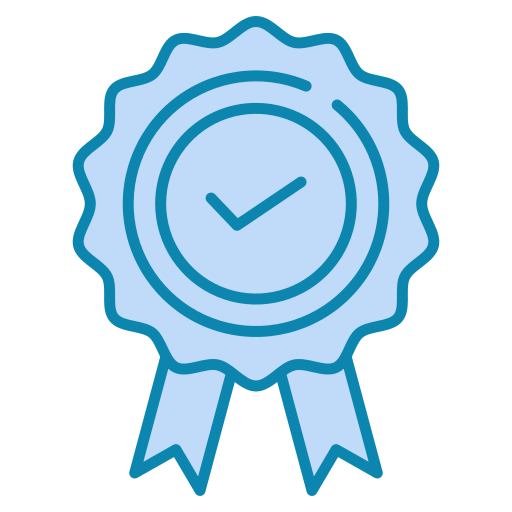
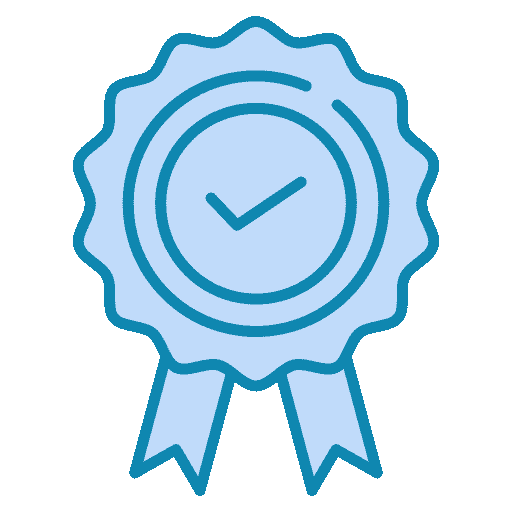
add some animation and fixed image loading time

diff --git a/src/pages/Appointment.jsx b/src/pages/Appointment.jsx
@@ -1,6 +1,7 @@
 import React, { useState } from 'react'
 import bg2 from '../assets/bg-2.jpg'
 import success from '../assets/check.png'
+import { motion } from 'framer-motion';
 
 
 const Appointment = () => {
@@ -10,39 +11,98 @@ const Appointment = () => {
 
     {isSuccess ? (
     <>
-    <div className="success-area bg-[rgb(19,21,25)] w-full min-h-screen flex items-center flex-col">
 
-        <h1 className='font-medium text-white text-xl flex items-center pt-10 px-10'><svg class="w-6 h-6 text-gray-800 dark:text-white" aria-hidden="true" xmlns="http://www.w3.org/2000/svg" width="24" height="24" fill="currentColor" viewBox="0 0 24 24">
-  <path d="M11 9a1 1 0 1 1 2 0 1 1 0 0 1-2 0Z"/>
-  <path fill-rule="evenodd" d="M9.896 3.051a2.681 2.681 0 0 1 4.208 0c.147.186.38.282.615.255a2.681 2.681 0 0 1 2.976 2.975.681.681 0 0 0 .254.615 2.681 2.681 0 0 1 0 4.208.682.682 0 0 0-.254.615 2.681 2.681 0 0 1-2.976 2.976.681.681 0 0 0-.615.254 2.682 2.682 0 0 1-4.208 0 .681.681 0 0 0-.614-.255 2.681 2.681 0 0 1-2.976-2.975.681.681 0 0 0-.255-.615 2.681 2.681 0 0 1 0-4.208.681.681 0 0 0 .255-.615 2.681 2.681 0 0 1 2.976-2.975.681.681 0 0 0 .614-.255ZM12 6a3 3 0 1 0 0 6 3 3 0 0 0 0-6Z" clip-rule="evenodd"/>
-  <path d="M5.395 15.055 4.07 19a1 1 0 0 0 1.264 1.267l1.95-.65 1.144 1.707A1 1 0 0 0 10.2 21.1l1.12-3.18a4.641 4.641 0 0 1-2.515-1.208 4.667 4.667 0 0 1-3.411-1.656Zm7.269 2.867 1.12 3.177a1 1 0 0 0 1.773.224l1.144-1.707 1.95.65A1 1 0 0 0 19.915 19l-1.32-3.93a4.667 4.667 0 0 1-3.4 1.642 4.643 4.643 0 0 1-2.53 1.21Z"/>
-</svg>
-             Medi Plus</h1>
+<motion.div
+  initial={{ opacity: 0, y: 0 }}
+  animate={{ opacity: 1, y: 0 }}
+  transition={{ duration: 0.6, ease: 'easeOut' }}
+  className="success-area bg-[rgb(19,21,25)] w-full min-h-screen flex items-center flex-col justify-center"
+>
+  <motion.h1
+    className="font-medium text-white text-xl flex items-center pt-10 px-10"
+    initial={{ opacity: 0, y: -20 }}
+    animate={{ opacity: 1, y: 0 }}
+    transition={{ delay: 0.2 }}
+  >
+    <svg
+      className="w-6 h-6 text-gray-800 dark:text-white mr-2"
+      aria-hidden="true"
+      xmlns="http://www.w3.org/2000/svg"
+      width="24"
+      height="24"
+      fill="currentColor"
+      viewBox="0 0 24 24"
+    >
+      <path d="M11 9a1 1 0 1 1 2 0 1 1 0 0 1-2 0Z" />
+      <path
+        fillRule="evenodd"
+        d="M9.896 3.051a2.681 2.681 0 0 1 4.208 0c.147.186.38.282.615.255a2.681 2.681 0 0 1 2.976 2.975.681.681 0 0 0 .254.615 2.681 2.681 0 0 1 0 4.208.682.682 0 0 0-.254.615 2.681 2.681 0 0 1-2.976 2.976.681.681 0 0 0-.615.254 2.682 2.682 0 0 1-4.208 0 .681.681 0 0 0-.614-.255 2.681 2.681 0 0 1-2.976-2.975.681.681 0 0 0-.255-.615 2.681 2.681 0 0 1 0-4.208.681.681 0 0 0 .255-.615 2.681 2.681 0 0 1 2.976-2.975.681.681 0 0 0 .614-.255ZM12 6a3 3 0 1 0 0 6 3 3 0 0 0 0-6Z"
+        clipRule="evenodd"
+      />
+      <path d="M5.395 15.055 4.07 19a1 1 0 0 0 1.264 1.267l1.95-.65 1.144 1.707A1 1 0 0 0 10.2 21.1l1.12-3.18a4.641 4.641 0 0 1-2.515-1.208 4.667 4.667 0 0 1-3.411-1.656Zm7.269 2.867 1.12 3.177a1 1 0 0 0 1.773.224l1.144-1.707 1.95.65A1 1 0 0 0 19.915 19l-1.32-3.93a4.667 4.667 0 0 1-3.4 1.642 4.643 4.643 0 0 1-2.53 1.21Z" />
+    </svg>
+    Medi Plus
+  </motion.h1>
 
-        <img src={success} className='w-40 h-full  rounded-full py-8'/>
+  <motion.img
+    src={success}
+    className="w-40 h-full rounded-full py-8"
+    initial={{ scale: 0 }}
+    animate={{ scale: 1 }}
+    transition={{ type: 'spring', stiffness: 80, delay: 0.4 }}
+  />
 
-        <p className='text-2xl text-gray-100 font-semibold'>Your <span className='text-green-600'>appointment</span> request has <br /> been successfully submitted!</p>
-        <p className='py-4 text-[rgb(121,123,127)] text-sm'>We'll be in touch shortly to confirm.</p>
+  <motion.p
+    className="text-2xl text-gray-100 font-semibold text-center px-4"
+    initial={{ opacity: 0, y: 20 }}
+    animate={{ opacity: 1, y: 0 }}
+    transition={{ delay: 0.6 }}
+  >
+    Your <span className="text-green-600">appointment</span> request has <br /> been successfully submitted!
+  </motion.p>
 
-        <div className="appointment-details-section  flex items-center justify-center gap-4 px-4  border-[rgba(121,123,127,0.28)] border-t border-b text-[rgb(121,123,127)] py-2">
-          <p>Requested appointment details:</p>
-          <div className="doctor-details flex items-center gap-2">
-            <div className="doc-profile w-8 h-8 rounded-full flex items-center justify-center text-[rgb(121,123,127)] bg-gray-800 text-xs">HB</div>
-            <p>Dr. Harshit Bhardwaj</p>
-          </div>
-          <div className="appointment-schedule flex items-center gap-2 ">
-            <svg xmlns="http://www.w3.org/2000/svg" width="24" height="24" viewBox="0 0 24 24" fill="none" stroke="currentColor" stroke-width="2" stroke-linecap="round" stroke-linejoin="round" class="lucide lucide-calendar-icon lucide-calendar"><path d="M8 2v4"/><path d="M16 2v4"/><rect width="18" height="18" x="3" y="4" rx="2"/><path d="M3 10h18"/></svg>
-            <p>Aug 16, 2025, 2:20PM</p>
-          </div>
-        </div>
+  <motion.p
+    className="py-4 text-[rgb(121,123,127)] text-sm"
+    initial={{ opacity: 0 }}
+    animate={{ opacity: 1 }}
+    transition={{ delay: 0.8 }}
+  >
+    We'll be in touch shortly to confirm.
+  </motion.p>
 
-      <button className='bg-[rgb(28,141,100)] py-3 text-gray-300 font-medium rounded-md text-xs my-4 px-4 hover:bg-[rgba(28,141,100,0.89)] transition-all' onClick={()=> setIsSuccess(false)}>New Appointment</button>
-        
-
+  <motion.div
+    className="appointment-details-section flex items-center justify-center gap-4 px-4 border-[rgba(121,123,127,0.28)] border-t border-b text-[rgb(121,123,127)] py-2"
+    initial={{ opacity: 0, y: 20 }}
+    animate={{ opacity: 1, y: 0 }}
+    transition={{ delay: 1 }}
+  >
+    <p>Requested appointment details:</p>
+    <div className="doctor-details flex items-center gap-2">
+      <div className="doc-profile w-8 h-8 rounded-full flex items-center justify-center text-[rgb(121,123,127)] bg-gray-800 text-xs">HB</div>
+      <p>Dr. Harshit Bhardwaj</p>
     </div>
+    <div className="appointment-schedule flex items-center gap-2">
+      <svg xmlns="http://www.w3.org/2000/svg" width="24" height="24" viewBox="0 0 24 24" fill="none" stroke="currentColor" strokeWidth="2" strokeLinecap="round" strokeLinejoin="round" className="lucide lucide-calendar-icon lucide-calendar">
+        <path d="M8 2v4" /><path d="M16 2v4" /><rect width="18" height="18" x="3" y="4" rx="2" /><path d="M3 10h18" />
+      </svg>
+      <p>Aug 16, 2025, 2:20PM</p>
+    </div>
+  </motion.div>
+
+  <motion.button
+    className="bg-[rgb(28,141,100)] py-3 text-gray-300 font-medium rounded-md text-xs my-4 px-4 hover:bg-[rgba(28,141,100,0.89)] transition-all"
+    initial={{ opacity: 0, y: 20 }}
+    animate={{ opacity: 1, y: 0 }}
+    transition={{ delay: 1 }}
+    onClick={() => setIsSuccess(false)}
+  >
+    New Appointment
+  </motion.button>
+</motion.div>
+
     </>):(
         <>
-        <div className='main-container bg-cover bg-center min-h-screen bg-fixed' style={{ backgroundImage: `url(${bg2})` }}>
+        <div className='main-container bg-cover bg-center min-h-screen bg-fixed bg-shadow' style={{ backgroundImage: `url(${bg2})` }}>
 
    <div className="form-area bg-[rgb(19,21,25)] w-2/3 pb-8 min-h-screen">
 

diff --git a/src/pages/Welcome.jsx b/src/pages/Welcome.jsx
@@ -12,7 +12,7 @@ const Welcome = (setIsWelcomePageIsOpen) => {
             </>
         ):(
         <>
-         <div className='main-container bg-cover bg-center min-h-screen bg-fixed' style={{ backgroundImage: `url(${bg2})` }}>
+         <div className='main-container bg-cover bg-center min-h-screen bg-fixed bg-shadow' style={{ backgroundImage: `url(${bg2})` }}>
          <div className="form-area bg-[rgb(19,21,25)] w-2/3 pb-8 min-h-screen">
             
              <h1 className='font-medium text-white text-xl flex items-center pt-6 px-10'><svg class="w-6 h-6 text-gray-800 dark:text-white" aria-hidden="true" xmlns="http://www.w3.org/2000/svg" width="24" height="24" fill="currentColor" viewBox="0 0 24 24">

diff --git a/src/App.css b/src/App.css
@@ -7,6 +7,24 @@
   box-sizing: border-box;
 }
 
+body{
+  background:rgb(19,21,25);
+}
+
 body::-webkit-scrollbar {
   width: 0px;
+}
+
+.bg-shadow {
+  position: relative;
+  z-index: 0;
+}
+
+.bg-shadow::before {
+  content: '';
+  position: absolute;
+  inset: 0;
+  background: rgba(0, 0, 0, 0.5); /* Semi-transparent black */
+  box-shadow: inset 0 0 100px rgba(0, 0, 0, 0.2); /* Inset black shadow */
+  z-index: -1;
 }
